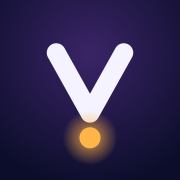
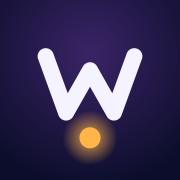
refactor: rename product from Vibe to Wibe
Update brand copy, metadata, manifest, wordmark, app icon, storage keys and store identifiers.

Changed region(s): [[0.1944, 0.2222, 0.8056, 0.6944]]

diff --git a/src/components/app/CityConsole.tsx b/src/components/app/CityConsole.tsx
@@ -9,10 +9,10 @@ import { Toast, type ToastMessage } from "@/components/app/Toast";
 import { CATEGORIES } from "@/lib/categories";
 import { ISLAMABAD, neighborhood } from "@/lib/data";
 import { formatDay, formatMoney, formatTime } from "@/lib/format";
-import { useCatalog, useVibe, vibe } from "@/lib/store";
+import { useCatalog, useWibe, wibe } from "@/lib/store";
 import type { EventItem, EventState } from "@/lib/types";
 
-const REJECT_REASONS = ["Missing or unclear details", "Date or time looks wrong", "Venue couldn't be confirmed", "Not suitable for Vibe"];
+const REJECT_REASONS = ["Missing or unclear details", "Date or time looks wrong", "Venue couldn't be confirmed", "Not suitable for Wibe"];
 const STALE_AFTER_DAYS = 30;
 const EASE = [0.22, 1, 0.36, 1] as const;
 
@@ -103,7 +103,7 @@ function ReviewCard({ event, now, onDecide }: { event: EventItem; now: Date; onD
 }
 
 export function CityConsole() {
-  const { ready, submissions, log, prefs } = useVibe();
+  const { ready, submissions, log, prefs } = useWibe();
   const catalog = useCatalog();
   const [now] = useState(() => new Date());
   const [toast, setToast] = useState<ToastMessage | null>(null);
@@ -119,7 +119,7 @@ export function CityConsole() {
   const stale = cityItems.filter((i) => (now.getTime() - Date.parse(i.verifiedAt)) / 86_400_000 > STALE_AFTER_DAYS).length;
 
   const decide = (event: EventItem, to: EventState, reason?: string) => {
-    if (!vibe.transition("editor", event.id, to, reason)) return;
+    if (!wibe.transition("editor", event.id, to, reason)) return;
     const verb = { approved: "Approved", published: "Published", rejected: "Rejected", suspended: "Suspended" }[to as string] ?? "Updated";
     setToast({ id: `${event.id}-${to}`, text: `${verb} ${event.title}.` });
   };
@@ -194,7 +194,7 @@ export function CityConsole() {
           </p>
           <div className="max-h-[520px] overflow-auto rounded-[1.4rem] border border-line">
             {log.length === 0 ? (
-              <p className="p-6 text-sm text-haze">No events yet. Turn on “Help improve Vibe” in your preferences, then browse picks.</p>
+              <p className="p-6 text-sm text-haze">No events yet. Turn on “Help improve Wibe” in your preferences, then browse picks.</p>
             ) : (
               <table className="w-full text-left text-sm">
                 <thead className="sticky top-0 bg-ink-2 text-xs text-haze">
@@ -226,7 +226,7 @@ export function CityConsole() {
               type="button"
               onClick={() => {
                 if (!confirmReset) return setConfirmReset(true);
-                vibe.reset();
+                wibe.reset();
                 setConfirmReset(false);
                 setToast({ id: `reset-${Date.now()}`, text: "Demo data cleared." });
               }}

diff --git a/src/components/app/Onboarding.tsx b/src/components/app/Onboarding.tsx
@@ -8,7 +8,7 @@ import { AnimatePresence, motion } from "motion/react";
 import { CATEGORIES, CATEGORY_IDS } from "@/lib/categories";
 import { CITIES, ISLAMABAD } from "@/lib/data";
 import { formatMoney } from "@/lib/format";
-import { useVibe, vibe } from "@/lib/store";
+import { useWibe, wibe } from "@/lib/store";
 import type { Category, Preferences } from "@/lib/types";
 
 const BUDGETS = [100_000, 250_000, 500_000, 1_000_000];
@@ -50,7 +50,7 @@ function Chip({ selected, onClick, children }: { selected: boolean; onClick: () 
 
 export function Onboarding() {
   const router = useRouter();
-  const { prefs: saved, ready } = useVibe();
+  const { prefs: saved, ready } = useWibe();
   const [draft, setDraft] = useState<Preferences | null>(null);
   const [step, setStep] = useState(0);
   const [direction, setDirection] = useState(1);
@@ -72,7 +72,7 @@ export function Onboarding() {
       return;
     }
     if (delta > 0 && step === STEPS.length - 1) {
-      vibe.setPrefs(prefs);
+      wibe.setPrefs(prefs);
       router.push("/discover");
       return;
     }
@@ -110,7 +110,7 @@ export function Onboarding() {
                 <legend className="font-display text-4xl font-bold leading-tight" style={{ fontVariationSettings: '"wdth" 105' }}>
                   Where are you going out?
                 </legend>
-                <p className="mt-3 text-haze">Vibe is piloting in one city first. More follow once it works well here.</p>
+                <p className="mt-3 text-haze">Wibe is piloting in one city first. More follow once it works well here.</p>
                 <div className="mt-8 grid gap-3 sm:grid-cols-2">
                   <button
                     type="button"
@@ -218,7 +218,7 @@ export function Onboarding() {
                     className="mt-1 size-5 shrink-0 accent-[var(--color-sodium)]"
                   />
                   <span>
-                    <span className="block font-semibold">Help improve Vibe</span>
+                    <span className="block font-semibold">Help improve Wibe</span>
                     <span className="mt-1 block text-sm text-haze">
                       Record which picks you see, save and hide on this device so the team can measure what works. Optional, off unless you tick it.
                     </span>

diff --git a/src/components/app/Feed.tsx b/src/components/app/Feed.tsx
@@ -10,7 +10,7 @@ import { Toast, type ToastMessage } from "@/components/app/Toast";
 import { CITIES, ISLAMABAD, neighborhood } from "@/lib/data";
 import { recommend } from "@/lib/engine";
 import { formatMoney } from "@/lib/format";
-import { useCatalog, useVibe, vibe } from "@/lib/store";
+import { useCatalog, useWibe, wibe } from "@/lib/store";
 import type { Category, Intent, Item, Preferences } from "@/lib/types";
 
 const INTENTS: { id: Intent; label: string; heading: string }[] = [
@@ -39,7 +39,7 @@ export function FeedSkeleton() {
 }
 
 export function Feed() {
-  const { ready, prefs, saves, hidden } = useVibe();
+  const { ready, prefs, saves, hidden } = useWibe();
   const catalog = useCatalog();
 
   if (!ready) return <FeedSkeleton />;
@@ -71,14 +71,14 @@ function FeedResults({ prefs, catalog, saves, hidden }: { prefs: Preferences; ca
   const current = INTENTS.find((i) => i.id === intent) ?? INTENTS[1];
 
   useEffect(() => {
-    vibe.logImpression(requestId, recs.map((r) => r.item.id));
+    wibe.logImpression(requestId, recs.map((r) => r.item.id));
     // requestId already encodes the result ids.
     // eslint-disable-next-line react-hooks/exhaustive-deps
   }, [requestId]);
 
   const hide = (item: Item, position: number) => {
-    vibe.hide(item.id, { requestId, position });
-    setToast({ id: `${item.id}-${hidden.length}`, text: `Hidden ${item.title}.`, action: { label: "Undo", onClick: () => vibe.unhide(item.id) } });
+    wibe.hide(item.id, { requestId, position });
+    setToast({ id: `${item.id}-${hidden.length}`, text: `Hidden ${item.title}.`, action: { label: "Undo", onClick: () => wibe.unhide(item.id) } });
   };
 
   return (
@@ -153,7 +153,7 @@ function FeedResults({ prefs, catalog, saves, hidden }: { prefs: Preferences; ca
                   prefs={prefs}
                   now={now}
                   saved={saves.includes(rec.item.id)}
-                  onToggleSave={() => vibe.toggleSave(rec.item.id, { requestId, position })}
+                  onToggleSave={() => wibe.toggleSave(rec.item.id, { requestId, position })}
                   onHide={() => hide(rec.item, position)}
                 />
               </motion.li>

diff --git a/src/lib/store.ts b/src/lib/store.ts
@@ -12,7 +12,7 @@ import { buildCatalog, DEMO_ORG, ISLAMABAD, neighborhood } from "./data";
 import { zonedDate } from "./engine";
 import type { AnalyticsEvent, Category, EventItem, EventState, Item, Preferences } from "./types";
 
-const STORAGE_KEY = "vibe.demo.v1";
+const STORAGE_KEY = "wibe.demo.v1";
 const MAX_LOG = 200;
 
 interface State {
@@ -54,7 +54,7 @@ function load(): State {
       log: Array.isArray(parsed.log) ? parsed.log : [],
     };
   } catch (error) {
-    console.warn("Vibe demo data could not be read; starting fresh.", error);
+    console.warn("Wibe demo data could not be read; starting fresh.", error);
     state = freshState();
   }
   return state;
@@ -65,7 +65,7 @@ function set(update: (s: State) => State): void {
   try {
     localStorage.setItem(STORAGE_KEY, JSON.stringify(state));
   } catch (error) {
-    console.warn("Vibe demo data could not be saved.", error);
+    console.warn("Wibe demo data could not be saved.", error);
   }
   listeners.forEach((l) => l());
 }
@@ -85,14 +85,14 @@ function subscribe(listener: () => void): () => void {
 }
 
 /** Store snapshot. `ready` is false during server render and hydration. */
-export function useVibe(): State & { ready: boolean } {
+export function useWibe(): State & { ready: boolean } {
   const snapshot = useSyncExternalStore(subscribe, load, () => SERVER_STATE);
   return { ...snapshot, ready: snapshot !== SERVER_STATE };
 }
 
 /** Fixtures plus partner submissions. Empty until the store is ready, so server and client markup agree. */
 export function useCatalog(): Item[] {
-  const { ready, submissions } = useVibe();
+  const { ready, submissions } = useWibe();
   return useMemo(() => {
     if (!ready) return [];
     catalog ??= buildCatalog(new Date());
@@ -152,7 +152,7 @@ export function canTransition(actor: Actor, from: EventState, to: EventState): b
 
 // ---------- actions ----------
 
-export const vibe = {
+export const wibe = {
   setPrefs(prefs: Preferences): void {
     set((s) => ({ ...s, prefs }));
   },

diff --git a/src/components/app/PartnerPortal.tsx b/src/components/app/PartnerPortal.tsx
@@ -10,7 +10,7 @@ import { Toast, type ToastMessage } from "@/components/app/Toast";
 import { CATEGORIES, CATEGORY_IDS } from "@/lib/categories";
 import { DEMO_ORG, ISLAMABAD, neighborhood } from "@/lib/data";
 import { formatDay, formatMoney, formatTime } from "@/lib/format";
-import { useCatalog, useVibe, vibe, type FieldErrors, type SubmissionInput } from "@/lib/store";
+import { useCatalog, useWibe, wibe, type FieldErrors, type SubmissionInput } from "@/lib/store";
 import type { EventItem } from "@/lib/types";
 
 const EMPTY_FORM: SubmissionInput = {
@@ -45,7 +45,7 @@ function Field({ label, error, hint, children }: { label: string; error?: string
 }
 
 export function PartnerPortal() {
-  const { ready, submissions } = useVibe();
+  const { ready, submissions } = useWibe();
   const catalog = useCatalog();
   const [form, setForm] = useState<SubmissionInput>(EMPTY_FORM);
   const [errors, setErrors] = useState<FieldErrors>({});
@@ -69,7 +69,7 @@ export function PartnerPortal() {
   };
 
   const save = (submit: boolean) => {
-    const result = vibe.saveSubmission(form, submit);
+    const result = wibe.saveSubmission(form, submit);
     if (!result.ok) {
       setErrors(result.errors);
       return;
@@ -80,7 +80,7 @@ export function PartnerPortal() {
   };
 
   const submitDraft = (e: EventItem) => {
-    if (vibe.transition("partner", e.id, "submitted")) setToast({ id: `${e.id}-sub`, text: `${e.title} submitted for review.` });
+    if (wibe.transition("partner", e.id, "submitted")) setToast({ id: `${e.id}-sub`, text: `${e.title} submitted for review.` });
   };
 
   const today = new Intl.DateTimeFormat("en-CA", { timeZone: ISLAMABAD.timezone }).format(now);

diff --git a/src/components/landing/FinalCta.tsx b/src/components/landing/FinalCta.tsx
@@ -17,7 +17,7 @@ export function FinalCta() {
           <h2 id="cta-title" className="font-display text-[clamp(2.6rem,7vw,6.4rem)] font-extrabold leading-[0.9]" style={{ fontVariationSettings: '"wdth" 115' }}>
             <WordsRise text="Tonight's plan is a few taps away." />
           </h2>
-          <p className="mx-auto mt-6 max-w-md text-lg text-haze">Free for members. Add Vibe to your home screen, no app store needed.</p>
+          <p className="mx-auto mt-6 max-w-md text-lg text-haze">Free for members. Add Wibe to your home screen, no app store needed.</p>
           <Link href="/onboarding" className="btn btn-primary group mt-10 !px-7 !py-4 text-base">
             Set your vibe
             <ArrowRight className="size-4 transition-transform group-hover:translate-x-0.5" aria-hidden />
@@ -28,7 +28,7 @@ export function FinalCta() {
         <div className="mx-auto flex max-w-7xl flex-col gap-8 md:flex-row md:items-center md:justify-between">
           <div className="space-y-2">
             <Logo />
-            <p className="max-w-sm text-sm text-haze">Vibe is a working name. This pilot prototype runs on fictional listings and stores everything on your device.</p>
+            <p className="max-w-sm text-sm text-haze">This pilot prototype runs on fictional listings and stores everything on your device.</p>
           </div>
           <nav aria-label="Footer" className="flex flex-wrap gap-x-8 gap-y-3 text-sm text-haze">
             <Link href="/discover" className="hover:text-jasmine">Discover</Link>

diff --git a/src/components/landing/Statement.tsx b/src/components/landing/Statement.tsx
@@ -4,7 +4,7 @@ import { useRef } from "react";
 import { motion, useScroll, useTransform, type MotionValue } from "motion/react";
 
 const TEXT =
-  "The plans are out there, scattered across venue pages, organizer accounts and group chats. Vibe gathers them in one place and ranks them for you.";
+  "The plans are out there, scattered across venue pages, organizer accounts and group chats. Wibe gathers them in one place and ranks them for you.";
 const HIGHLIGHT = new Set(["one", "place"]);
 
 function Word({ word, progress, range }: { word: string; progress: MotionValue<number>; range: [number, number] }) {
@@ -27,7 +27,7 @@ export function Statement() {
     <section className="sector-grid relative px-5 py-32 sm:px-8 md:py-48">
       <div aria-hidden className="absolute inset-0 bg-gradient-to-b from-ink via-transparent to-ink" />
       <div className="relative mx-auto max-w-5xl">
-        <p className="eyebrow mb-8">Why Vibe</p>
+        <p className="eyebrow mb-8">Why Wibe</p>
         <p ref={ref} className="font-display text-[clamp(1.9rem,4.6vw,4rem)] font-semibold leading-[1.08] tracking-[-0.01em]" style={{ fontVariationSettings: '"wdth" 88' }}>
           {words.map((word, i) => (
             <Word key={`${word}-${i}`} word={word} progress={scrollYProgress} range={[i / words.length, (i + 1) / words.length]} />

diff --git a/src/components/app/ItemDetail.tsx b/src/components/app/ItemDetail.tsx
@@ -11,7 +11,7 @@ import { CATEGORIES } from "@/lib/categories";
 import { CITIES, ISLAMABAD, neighborhood } from "@/lib/data";
 import { isOpenAt, recommend } from "@/lib/engine";
 import { formatDay, formatMoney, formatTime, formatVerified, reasonLabel } from "@/lib/format";
-import { useCatalog, useVibe, vibe } from "@/lib/store";
+import { useCatalog, useWibe, wibe } from "@/lib/store";
 import type { City, Item } from "@/lib/types";
 
 const WEEKDAY_NAMES = ["Sunday", "Monday", "Tuesday", "Wednesday", "Thursday", "Friday", "Saturday"];
@@ -43,7 +43,7 @@ function ParallaxCover({ item }: { item: Item }) {
 }
 
 export function ItemDetail({ id }: { id: string }) {
-  const { ready, prefs, saves } = useVibe();
+  const { ready, prefs, saves } = useWibe();
   const catalog = useCatalog();
   const [now] = useState(() => new Date());
 
@@ -95,7 +95,7 @@ export function ItemDetail({ id }: { id: string }) {
               {item.title}
             </motion.h1>
           </div>
-          <SaveButton saved={saved} onToggle={() => vibe.toggleSave(item.id)} label={item.title} className="relative !size-12 shrink-0" />
+          <SaveButton saved={saved} onToggle={() => wibe.toggleSave(item.id)} label={item.title} className="relative !size-12 shrink-0" />
         </div>
       </div>
 

diff --git a/src/app/layout.tsx b/src/app/layout.tsx
@@ -14,15 +14,15 @@ const SITE_URL = process.env.NEXT_PUBLIC_SITE_URL ?? "http://localhost:3000";
 
 export const metadata: Metadata = {
   metadataBase: new URL(SITE_URL),
-  title: { default: "Vibe — Find your people, places and plans", template: "%s · Vibe" },
+  title: { default: "Wibe — Find your people, places and plans", template: "%s · Wibe" },
   description:
-    "Vibe recommends places, events and hosted experiences in Islamabad, and tells you why each one made your list.",
-  applicationName: "Vibe",
-  appleWebApp: { capable: true, title: "Vibe", statusBarStyle: "black-translucent" },
+    "Wibe recommends places, events and hosted experiences in Islamabad, and tells you why each one made your list.",
+  applicationName: "Wibe",
+  appleWebApp: { capable: true, title: "Wibe", statusBarStyle: "black-translucent" },
   openGraph: {
     type: "website",
-    siteName: "Vibe",
-    title: "Vibe — Find your people, places and plans",
+    siteName: "Wibe",
+    title: "Wibe — Find your people, places and plans",
     description: "Personal, explainable picks for what to do in Islamabad tonight.",
   },
   twitter: { card: "summary_large_image" },

diff --git a/src/components/app/SavedList.tsx b/src/components/app/SavedList.tsx
@@ -10,10 +10,10 @@ import { SaveButton } from "@/components/app/SaveButton";
 import { CATEGORIES } from "@/lib/categories";
 import { ISLAMABAD, neighborhood } from "@/lib/data";
 import { formatMoney, formatWhen } from "@/lib/format";
-import { useCatalog, useVibe, vibe } from "@/lib/store";
+import { useCatalog, useWibe, wibe } from "@/lib/store";
 
 export function SavedList() {
-  const { ready, saves } = useVibe();
+  const { ready, saves } = useWibe();
   const catalog = useCatalog();
   const [now] = useState(() => new Date());
 
@@ -60,7 +60,7 @@ export function SavedList() {
                     {formatWhen(item, ISLAMABAD, now)} · <span className="text-sodium">{formatMoney(item.priceMinor, ISLAMABAD)}</span>
                   </p>
                 </div>
-                <SaveButton saved onToggle={() => vibe.toggleSave(item.id)} label={item.title} className="relative z-10" />
+                <SaveButton saved onToggle={() => wibe.toggleSave(item.id)} label={item.title} className="relative z-10" />
               </motion.li>
             ))}
           </AnimatePresence>

diff --git a/src/components/landing/ReasonsShowcase.tsx b/src/components/landing/ReasonsShowcase.tsx
@@ -40,7 +40,7 @@ export function ReasonsShowcase() {
           </h2>
           <Reveal delay={0.2}>
             <p className="mt-6 max-w-md text-lg leading-relaxed text-haze">
-              Vibe ranks what’s open, affordable and close to you, then tells you which of those reasons put each pick on your list. If one misses,
+              Wibe ranks what’s open, affordable and close to you, then tells you which of those reasons put each pick on your list. If one misses,
               tap <span className="text-jasmine">Not for me</span> and it’s gone.
             </p>
           </Reveal>

diff --git a/src/components/landing/Hero.tsx b/src/components/landing/Hero.tsx
@@ -106,7 +106,7 @@ export function Hero() {
           transition={{ duration: 0.9, delay: 1.1, ease: EASE }}
         >
           <p className="max-w-md text-lg leading-relaxed text-haze">
-            Vibe picks places, events and hosted experiences around you, and shows exactly why each one made your list.
+            Wibe picks places, events and hosted experiences around you, and shows exactly why each one made your list.
           </p>
           <div className="flex flex-wrap gap-3">
             <Link href="/onboarding" className="btn btn-primary group">
